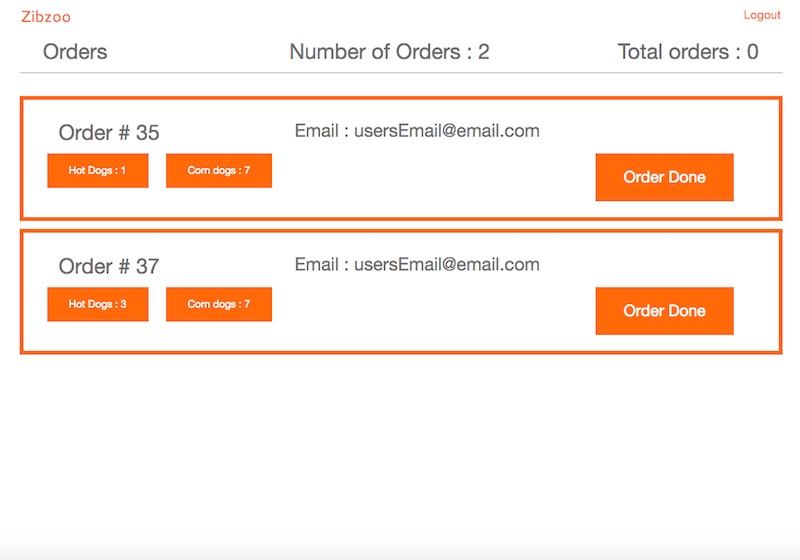
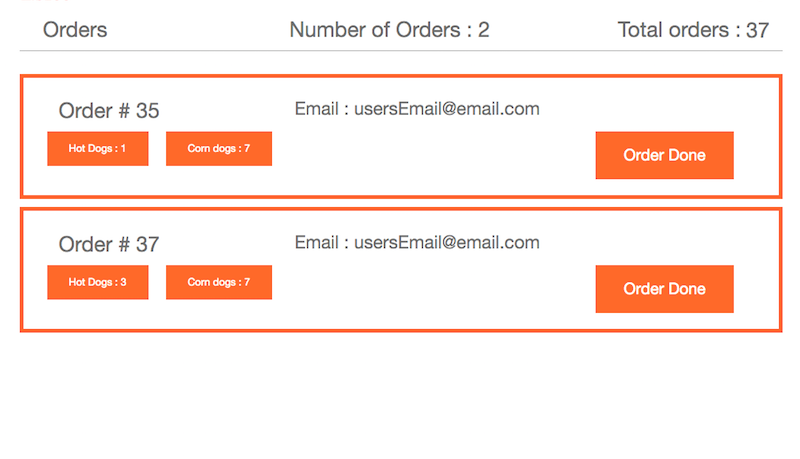
[feat] add mechant interaction and updated picture

diff --git a/Our_Story.md b/Our_Story.md
@@ -15,6 +15,10 @@ Choose a vendor and check out their menu
 
 ![alt tag](./pictureAssets/MerchPageView.png)
 
+Wait, you can see menus but before you can order any food online, you need to log in.
+
+![alt tag](./pictureAssets/LogIn.png)
+
 Grab some food and add it to your cart, want to grab food from more then one vendor? No problem, feel free to add items from diffrent vendors
 
 ![alt tag](./pictureAssets/AddItemToCart.png)
@@ -23,8 +27,34 @@ Once your ready to finish, head over to your order cart and double check your fo
 
 ![alt tag](./pictureAssets/ShoppingCart.png)
 
-Finaly just place your order and confirm your payment
+Finaly just place your order and confirm your payment.  We take care of all the details so you dont have to.  All you need to do now is go pick up your food.
 
 ![alt tag](./pictureAssets/ConfirmPayment.png)
 
+Don't want to head out untill your food is ready? Don't have the time to get out there untill you know your food is ready.  Well we have you covered.  Once a vendor finishes you food, you'll automaticaly receive an email letting you know its all finsihed.
+
+![alt tag](./pictureAssets/EmailResponce.png)
+
+
 # Vendor Interaction
+
+Coming to Zibzoo as a vendor and woundering how we can help you out?  Well when you sign up with Zibzoo we try to make things easy for you.
+
+Edit your profile
+
+![alt tag](./pictureAssets/UpdateProfile.png)
+
+Add items to your menu
+
+![alt tag](./pictureAssets/MerchMenu.png)
+
+Need to reorganize your menu? no problem simply drag and drop any item or any catagorie of food
+
+![alt tag](./pictureAssets/MenuDD2.png)
+
+Finaly take care of all your orders.  You can remove individual food items from orders, or complete an order all together. View how many orders you currently have, as well as a counter for how many orders you've had this session.  Dont worry about contacting people, when you finish an order we automaticaly send off emails to the person who ordered it.  Just make sure to write down their order numbers and emails just in case.
+
+![alt tag](./pictureAssets/MerchOrderView.png)
+
+
+
